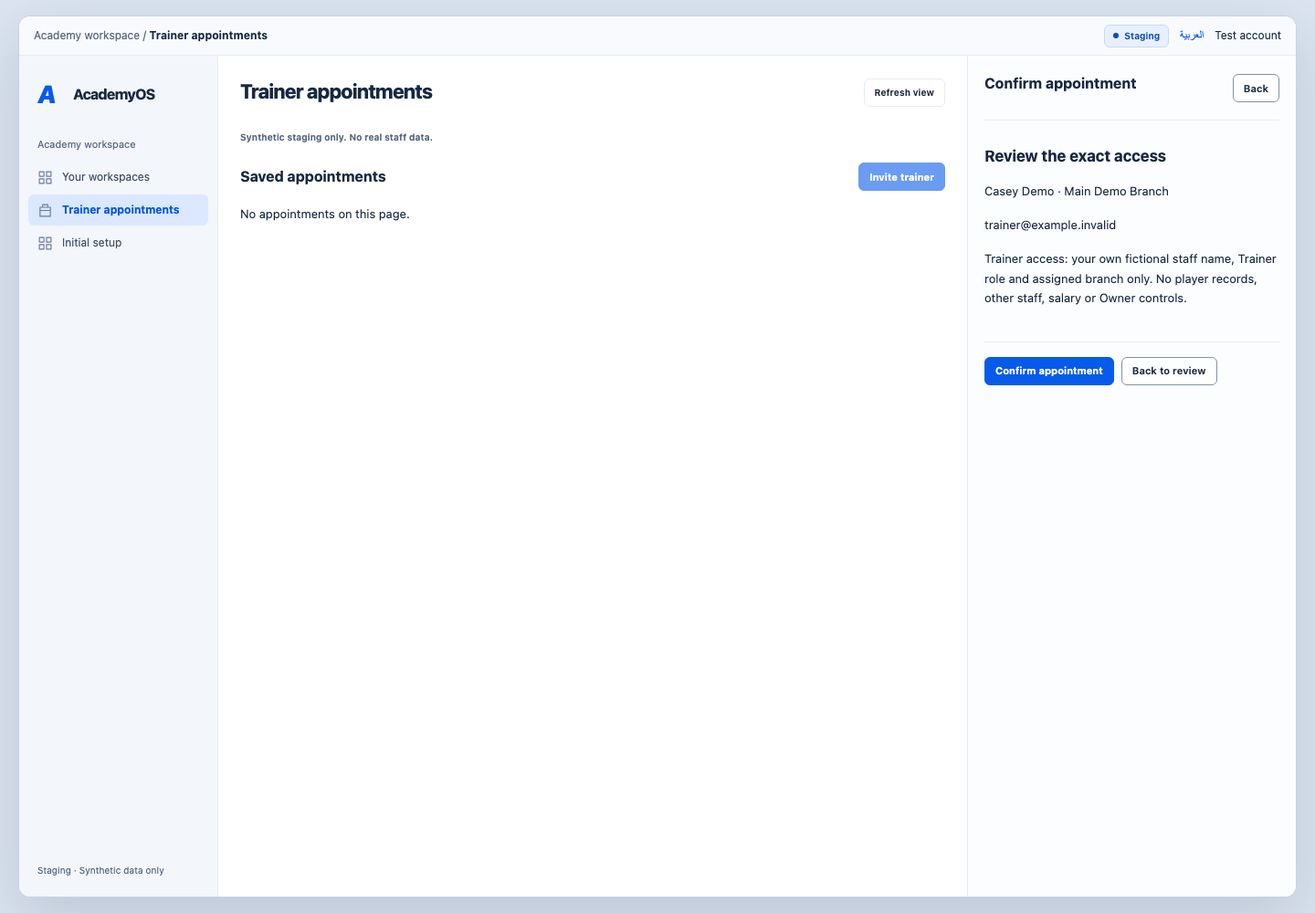
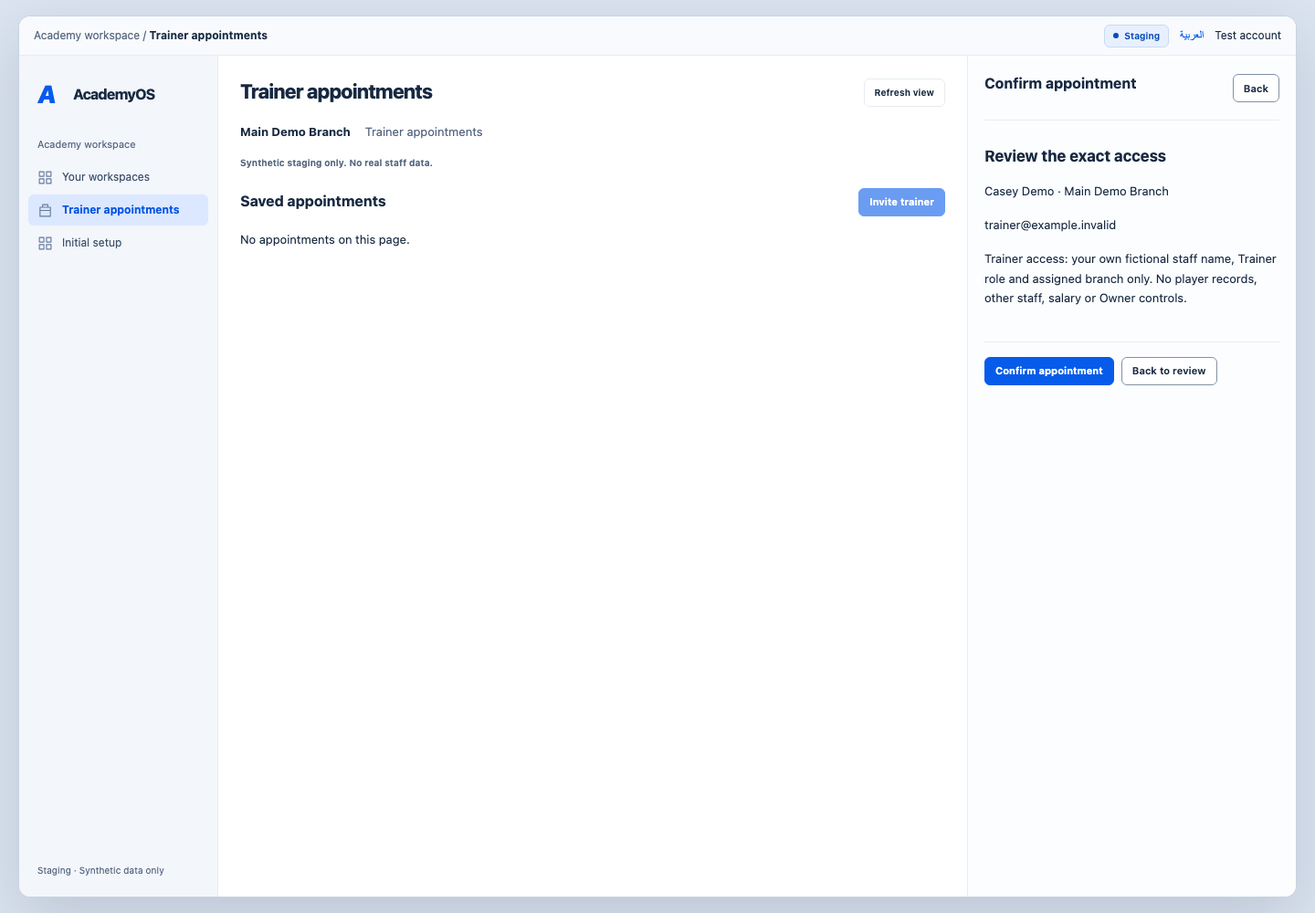
Preserve live profile focus and appointment task context

Changed region(s): [[0.1875, 0.124, 0.375, 0.279], [0.625, 0.155, 0.7188, 0.248]]

diff --git a/apps/web/src/components/people-workspace.tsx b/apps/web/src/components/people-workspace.tsx
@@ -65,7 +65,7 @@ function PeopleJourney({ locale: initialLocale, academy, subject }: {
     const [error, setError] = useState(''), [notice, setNotice] = useState(''), [busy, setBusy] = useState(true), [blocked, setBlocked] = useState(false);
     const [profileId, setProfileId] = useState(''), [selected, setSelected] = useState<Player | null>(null), [saved, setSaved] = useState(false);
     const operation = useRef<string | null>(null), heading = useRef<HTMLHeadingElement>(null), nameInput = useRef<HTMLInputElement>(null);
-    const profileOpener = useRef<HTMLButtonElement | null>(null);
+    const profileOpeners = useRef(new Map<string, HTMLButtonElement>()), searchInput = useRef<HTMLInputElement>(null);
     const lastSearch = useRef(''), lifecycleTicket = useRef(0), profileTicket = useRef(0);
     const active = useRef(true), locked = useRef(false), controllers = useRef(new Set<AbortController>()), directoryTicket = useRef(0);
     const storageKey = `academyos:people:${subject}:${academy}`;
@@ -276,10 +276,10 @@ function PeopleJourney({ locale: initialLocale, academy, subject }: {
         return; lastSearch.current = search; const timer = setTimeout(() => refreshDirectory(), 300); return () => clearTimeout(timer); }, [search]);
     useEffect(() => { let queued = false; const refresh = () => { if (queued) return; queued = true; queueMicrotask(() => { queued = false; refreshVisible(); }); }; window.addEventListener('focus', refresh); document.addEventListener('visibilitychange', refresh); return () => { window.removeEventListener('focus', refresh); document.removeEventListener('visibilitychange', refresh); }; }, []);
     useEffect(() => { document.documentElement.lang = locale; document.documentElement.dir = ar ? 'rtl' : 'ltr'; }, [locale, ar]);
-    useEffect(() => { heading.current?.focus(); }, [stage]);
+    useEffect(() => { if (!['profile','review','saving','unknown'].includes(stage)) heading.current?.focus(); }, [stage]);
     useEffect(() => { if (!['form', 'duplicates', 'review', 'saving', 'unknown'].includes(stage))
         return; const guard = (e: BeforeUnloadEvent) => { e.preventDefault(); e.returnValue = ''; }; window.addEventListener('beforeunload', guard); return () => window.removeEventListener('beforeunload', guard); }, [stage]);
-    function closeProfile() { if (busy || stage === 'unknown' || stage === 'saving') return; if (stage === 'review') { go('form'); return; } go('directory'); if (saved) void loadDirectory(); requestAnimationFrame(() => profileOpener.current?.focus()); }
+    function closeProfile() { if (busy || stage === 'unknown' || stage === 'saving') return; if (stage === 'review') { go('form'); return; } go('directory'); const restoreFocus = () => requestAnimationFrame(() => (profileOpeners.current.get(profileId) ?? searchInput.current)?.focus()); if (saved) void loadDirectory().then(restoreFocus); else restoreFocus(); }
     const inspector = <>
       {stage === 'profile' && <div className="read-toolbar"><Button disabled={busy} onClick={() => void openProfile(profileId, saved)}>{t(error ? 'Retry current read' : 'Refresh view', error ? 'إعادة محاولة قراءة الحالة' : 'تحديث العرض')}</Button></div>}
 
@@ -330,10 +330,10 @@ function PeopleJourney({ locale: initialLocale, academy, subject }: {
         {(stage === 'directory' || stage === 'profile') && <section className="journey-card">
           <div className="section-heading"><h2>{t('Player directory', 'قائمة اللاعبين')}</h2><Button disabled={busy} className="button" onClick={() => { setName(''); setContact(''); setDifferent(false); setSaved(false); operation.current = null; go('form'); }}>{t('Register player', 'تسجيل لاعب')}</Button></div>
           <label htmlFor="player-search">{t('Find a player by name', 'البحث عن لاعب بالاسم')}</label>
-          <Input id="player-search" maxLength={160} value={search} onChange={event => { directoryTicket.current++; setSearch(event.target.value); setBusy(true); }}/>
+          <Input ref={searchInput} id="player-search" maxLength={160} value={search} onChange={event => { directoryTicket.current++; setSearch(event.target.value); setBusy(true); }}/>
           {search.normalize('NFKC').trim().length === 1 && <p>{t('Enter at least two characters to search.','أدخل حرفين على الأقل للبحث.')}</p>}
           {!busy && !players.length && search.normalize('NFKC').trim().length !== 1 && <p>{t('No matching players.', 'لا يوجد لاعبون مطابقون.')}</p>}
-          <table className="workspace-table"><caption className="visually-hidden">{t('Player directory','قائمة اللاعبين')}</caption><thead><tr><th>{t('Player','اللاعب')}</th><th>{t('Branch','الفرع')}</th></tr></thead><tbody>{!busy && players.map(player => <tr key={player.id} className={profileId === player.id && stage === 'profile' ? 'selected' : undefined}><th scope="row"><Button disabled={busy} onClick={event => { profileOpener.current=event.currentTarget; void openProfile(player.id); }}>{player.name}</Button></th><td>{player.branch}</td></tr>)}</tbody></table>
+          <table className="workspace-table"><caption className="visually-hidden">{t('Player directory','قائمة اللاعبين')}</caption><thead><tr><th>{t('Player','اللاعب')}</th><th>{t('Branch','الفرع')}</th></tr></thead><tbody>{!busy && players.map(player => <tr key={player.id} className={profileId === player.id && stage === 'profile' ? 'selected' : undefined}><th scope="row"><Button ref={node => { if (node) profileOpeners.current.set(player.id,node); else profileOpeners.current.delete(player.id); }} disabled={busy} onClick={() => void openProfile(player.id)}>{player.name}</Button></th><td>{player.branch}</td></tr>)}</tbody></table>
           <Button disabled={busy} onClick={() => void loadDirectory()}>{t('First page', 'الصفحة الأولى')}</Button>{more && <Button disabled={busy} onClick={() => void loadDirectory(players.at(-1)?.id)}>{t('Next page', 'الصفحة التالية')}</Button>}<small>{t('Up to 25 players per page. Contact details appear only in profiles.', 'حتى 25 لاعباً في الصفحة. بيانات الاتصال في الملفات فقط.')}</small>
         </section>}
         {stage === 'form' && <section className="journey-card"><h2>{t('New player draft', 'مسودة لاعب جديد')}</h2>
@@ -354,7 +354,7 @@ function PeopleJourney({ locale: initialLocale, academy, subject }: {
         </section>}
         {stage === 'duplicates' && <section className="journey-card"><h2>{t('Review possible duplicates', 'مراجعة السجلات المتشابهة')}</h2>
           <p>{t('Matching names do not establish identity. Open an existing record, or explicitly confirm a different person. No automatic merge.', 'تشابه الاسم لا يثبت الهوية. افتح سجلاً موجوداً أو أكد أنه شخص مختلف. لا دمج تلقائياً.')}</p>
-          <ul className="journey-list">{candidates.map(player => <li key={player.id}><strong>{player.name}</strong> · {player.branch} <Button disabled={busy} onClick={event => { profileOpener.current = event.currentTarget; void openProfile(player.id); }}>{t('Open existing profile', 'فتح الملف الموجود')}</Button></li>)}</ul>
+          <ul className="journey-list">{candidates.map(player => <li key={player.id}><strong>{player.name}</strong> · {player.branch} <Button disabled={busy} onClick={() => void openProfile(player.id)}>{t('Open existing profile', 'فتح الملف الموجود')}</Button></li>)}</ul>
           {candidateMore && <Button disabled={busy} onClick={() => void reviewCandidates(candidates.at(-1)?.id)}>{t('Next matching page (up to 25)', 'الصفحة المطابقة التالية (حتى 25)')}</Button>}<label className="people-check"><input type="checkbox" checked={different} onChange={event => setDifferent(event.target.checked)}/>{t('I reviewed these records. This is a different fictional person.', 'راجعت هذه السجلات. هذا شخص خيالي مختلف.')}</label>
           <div className="journey-actions"><Button disabled={!different || busy || candidateMore} className="button" onClick={() => go('review')}>{t('Review new registration', 'مراجعة التسجيل الجديد')}</Button><Button onClick={() => go('form')}>{t('Edit draft', 'تعديل المسودة')}</Button></div>
         </section>}

diff --git a/apps/web/src/components/guardian-workspace.tsx b/apps/web/src/components/guardian-workspace.tsx
@@ -291,7 +291,7 @@ function GuardianJourney({ locale: initialLocale, mode, academy, player: playerI
     </>;
     return <WorkspaceShell locale={locale} context={mode === 'guardian' ? t('Guardian workspace', 'مساحة ولي الأمر') : t('Academy workspace', 'مساحة الأكاديمية')} title={title} homeHref={`/${locale}/workspace`} languageHref={`/${ar ? 'en' : 'ar'}/${path}`} onNavigate={navigate} account={<UserButton />} navigation={[{ href: `/${locale}/workspace`, label: t('Your workspaces', 'مساحات العمل') }, ...(mode === 'owner' ? [{ href: `/${locale}/workspace/${academy}/players/${playerId}/guardians`, label: title, current: true }, { href: `/${locale}/workspace/${academy}/players`, label: t('Players', 'اللاعبون') }] : [])]}>
  <WorkspacePanes arabic={ar} title={draftOpen && !review ? t('New appointment','دعوة جديدة') : review ? t('Confirm appointment','تأكيد الدعوة') : t('Appointment details','تفاصيل الدعوة')} inspector={inspector} selected={Boolean(unknown || review || selected || inspected || draftOpen)} onBack={closeInspector} selectionKey={review ? 'review' : selected?.id ?? inspected?.id ?? (draftOpen ? 'draft' : '')} blocked={busy || unknown}>
- <header className="task-header"><h1 ref={heading} tabIndex={-1}>{title}</h1>{!unknown && mode === 'owner' && <div className="read-toolbar"><Button disabled={busy} onClick={() => { if (email || reason || review) { setReview(null); setConfirmed(false); setNotice('recheck'); } void load(); }}>{t(error ? 'Retry current read' : 'Refresh view', error ? 'إعادة محاولة قراءة الحالة' : 'تحديث العرض')}</Button></div>}{mode !== 'owner' && !unknown && <div className="read-toolbar"><Button disabled={busy} onClick={() => void load()}>{t(error ? 'Retry current read' : 'Refresh view', error ? 'إعادة محاولة قراءة الحالة' : 'تحديث العرض')}</Button></div>}</header>{mode !== 'owner' && !unknown && !review && error && <p role="alert" className="journey-error">{errorText[error] ?? errorText.unavailable}</p>} {!busy && !unknown && !blocked && !review && mode === 'invitation' && invite && <section className="journey-card"><h2>{invite.display_name}</h2><p>{invite.branch_name}</p><p>{scope}</p>{invite.state === 'accepted' ? <Link className="button" href={`/${locale}/workspace/${invite.academy_id}/guardian`}>{t('Open linked players', 'فتح اللاعبين المرتبطين')}</Link> : <Button onClick={() => setReview({ action: 'accept' })}>{t('Review acceptance', 'مراجعة القبول')}</Button>}</section>}
+ <header className="task-header"><h1 ref={heading} tabIndex={-1}>{title}</h1>{!unknown && mode === 'owner' && <div className="read-toolbar"><Button disabled={busy} onClick={() => { if (email || reason || review) { setReview(null); setConfirmed(false); setNotice('recheck'); } void load(); }}>{t(error ? 'Retry current read' : 'Refresh view', error ? 'إعادة محاولة قراءة الحالة' : 'تحديث العرض')}</Button></div>}{mode !== 'owner' && !unknown && <div className="read-toolbar"><Button disabled={busy} onClick={() => void load()}>{t(error ? 'Retry current read' : 'Refresh view', error ? 'إعادة محاولة قراءة الحالة' : 'تحديث العرض')}</Button></div>}</header>{mode === 'owner' && person && <p className="scope-line"><strong>{person.display_name}</strong><span>{person.branch_name}</span></p>}{mode !== 'owner' && !unknown && !review && error && <p role="alert" className="journey-error">{errorText[error] ?? errorText.unavailable}</p>} {!busy && !unknown && !blocked && !review && mode === 'invitation' && invite && <section className="journey-card"><h2>{invite.display_name}</h2><p>{invite.branch_name}</p><p>{scope}</p>{invite.state === 'accepted' ? <Link className="button" href={`/${locale}/workspace/${invite.academy_id}/guardian`}>{t('Open linked players', 'فتح اللاعبين المرتبطين')}</Link> : <Button onClick={() => setReview({ action: 'accept' })}>{t('Review acceptance', 'مراجعة القبول')}</Button>}</section>}
  {!busy && !unknown && !blocked && !error && !review && mode === 'guardian' && <section className="journey-card"><p>{scope}</p>{children.length === 0 && <p>{t('No active approved player links on this page. Contact your academy Owner if you expected access.', 'لا توجد ارتباطات معتمدة نشطة في هذه الصفحة. تواصل مع مالك الأكاديمية إذا توقعت صلاحية.')}</p>}<ul className="journey-list">{children.map(c => <li key={c.id}><h2>{c.display_name}</h2><p>{c.branch_name}</p><Button onClick={() => void load(undefined, undefined, c.id)}>{t('Refresh this player’s access', 'تحديث صلاحية هذا اللاعب')}</Button></li>)}</ul>{more && <Button onClick={() => void load(children.at(-1)?.id)}>{t('Next page', 'الصفحة التالية')}</Button>}</section>}
 <p className="eyebrow">{t('Synthetic staging only. No real family evidence.', 'بيئة اختبار فقط. لا أدلة أسرية حقيقية.')}</p>
  {error && !unknown && !review && !selected && !draftOpen && mode === 'owner' && <p role="alert" className="notice error">{errorText[error] ?? errorText.unavailable}</p>}{notice && !review && !selected && !draftOpen && !unknown && <p role="status" className="notice">{notice === 'recheck' ? t('Draft retained. Recheck current state before a new confirmation; current server authority and version are checked on submit.', 'حُفظت المسودة في الذاكرة. أعد التحقق قبل تأكيد جديد؛ تُفحص الصلاحية والإصدار على الخادم عند الإرسال.') : notice === 'cancelled' ? t('The original operation was cancelled before commit. Review before starting again.', 'أُلغيت العملية الأصلية قبل الحفظ. راجع قبل البدء مجدداً.') : error ? t('Operation confirmed; current access could not be refreshed. Retry loading.', 'تأكدت العملية؛ تعذر تحديث الصلاحية الحالية. أعد التحميل.') : t('Operation confirmed. Current saved state is shown below.', 'تأكدت العملية. الحالة المحفوظة الحالية موضحة أدناه.')}</p>}

diff --git a/apps/web/src/components/trainer-workspace.tsx b/apps/web/src/components/trainer-workspace.tsx
@@ -291,7 +291,7 @@ function TrainerJourney({ locale: initialLocale, mode, academy, subject }: Props
     </>;
     return <WorkspaceShell locale={locale} context={mode === 'trainer' ? t('Trainer workspace', 'مساحة المدرب') : t('Academy workspace', 'مساحة الأكاديمية')} title={title} homeHref={`/${locale}/workspace`} languageHref={`/${ar ? 'en' : 'ar'}/${path}`} onNavigate={navigate} account={<UserButton />} navigation={[{ href: `/${locale}/workspace`, label: t('Your workspaces', 'مساحات العمل') }, ...(mode === 'owner' ? [{ href: `/${locale}/workspace/${academy}/staff`, label: title, current: true }, { href: `/${locale}/workspace/${academy}`, label: t('Initial setup', 'الإعداد الأولي') }] : [])]}>
  <WorkspacePanes arabic={ar} title={draftOpen && !review ? t('New appointment','دعوة جديدة') : review ? t('Confirm appointment','تأكيد الدعوة') : t('Appointment details','تفاصيل الدعوة')} inspector={inspector} selected={Boolean(unknown || review || selected || inspected || draftOpen)} onBack={closeInspector} selectionKey={review ? 'review' : selected?.id ?? inspected?.id ?? (draftOpen ? 'draft' : '')} blocked={busy || unknown}>
- <header className="task-header"><h1 ref={heading} tabIndex={-1}>{title}</h1>{!unknown && mode === 'owner' && <div className="read-toolbar"><Button disabled={busy} onClick={() => { if (email || reason || review) { setReview(null); setConfirmed(false); setNotice('recheck'); } void load(); }}>{t(error ? 'Retry current read' : 'Refresh view', error ? 'إعادة محاولة قراءة الحالة' : 'تحديث العرض')}</Button></div>}{mode !== 'owner' && !unknown && <div className="read-toolbar"><Button disabled={busy} onClick={() => void load()}>{t(error ? 'Retry current read' : 'Refresh view', error ? 'إعادة محاولة قراءة الحالة' : 'تحديث العرض')}</Button></div>}</header>{mode !== 'owner' && !unknown && !review && error && <p role="alert" className="journey-error">{errorText[error] ?? errorText.unavailable}</p>} {!busy&&!unknown&&!blocked&&!review&&mode==='invitation'&&invite&&<section className="journey-card"><h2>{invite.display_name}</h2><p>{t('Trainer','مدرب')} · {invite.branch_name}</p><p>{scope}</p>{invite.state==='accepted'?<Link className="button" href={`/${locale}/workspace/${invite.academy_id}/trainer`}>{t('Open staff profile','فتح الملف الوظيفي')}</Link>:<Button onClick={()=>setReview({action:'accept'})}>{t('Review acceptance','مراجعة القبول')}</Button>}</section>}
+ <header className="task-header"><h1 ref={heading} tabIndex={-1}>{title}</h1>{!unknown && mode === 'owner' && <div className="read-toolbar"><Button disabled={busy} onClick={() => { if (email || reason || review) { setReview(null); setConfirmed(false); setNotice('recheck'); } void load(); }}>{t(error ? 'Retry current read' : 'Refresh view', error ? 'إعادة محاولة قراءة الحالة' : 'تحديث العرض')}</Button></div>}{mode !== 'owner' && !unknown && <div className="read-toolbar"><Button disabled={busy} onClick={() => void load()}>{t(error ? 'Retry current read' : 'Refresh view', error ? 'إعادة محاولة قراءة الحالة' : 'تحديث العرض')}</Button></div>}</header>{mode === 'owner' && branch && <p className="scope-line"><strong>{branch.branch_name}</strong><span>{t('Trainer appointments','تعيينات المدربين')}</span></p>}{mode !== 'owner' && !unknown && !review && error && <p role="alert" className="journey-error">{errorText[error] ?? errorText.unavailable}</p>} {!busy&&!unknown&&!blocked&&!review&&mode==='invitation'&&invite&&<section className="journey-card"><h2>{invite.display_name}</h2><p>{t('Trainer','مدرب')} · {invite.branch_name}</p><p>{scope}</p>{invite.state==='accepted'?<Link className="button" href={`/${locale}/workspace/${invite.academy_id}/trainer`}>{t('Open staff profile','فتح الملف الوظيفي')}</Link>:<Button onClick={()=>setReview({action:'accept'})}>{t('Review acceptance','مراجعة القبول')}</Button>}</section>}
  {!busy&&!unknown&&!blocked&&!error&&!review&&mode==='trainer'&&profile&&<section className="journey-card"><h2>{profile.display_name}</h2><p>{t('Trainer','مدرب')} · {profile.branch_name}</p><p>{scope}</p><p>{t('No dated sessions are available in this slice. Programs, assigned rosters and attendance follow in later stages.','لا تتاح حصص مؤرخة في هذه المرحلة. تأتي البرامج والقوائم المخصصة والحضور في مراحل لاحقة.')}</p></section>}
 <p className="eyebrow">{t('Synthetic staging only. No real staff data.', 'بيئة اختبار فقط. لا بيانات موظفين حقيقية.')}</p>
  {error && !unknown && !review && !selected && !draftOpen && mode === 'owner' && <p role="alert" className="notice error">{errorText[error] ?? errorText.unavailable}</p>}{notice && !review && !selected && !draftOpen && !unknown && <p role="status" className="notice">{notice === 'recheck' ? t('Draft retained. Recheck current state before a new confirmation; current server authority and version are checked on submit.', 'حُفظت المسودة في الذاكرة. أعد التحقق قبل تأكيد جديد؛ تُفحص الصلاحية والإصدار على الخادم عند الإرسال.') : notice === 'cancelled' ? t('The original operation was cancelled before commit. Review before starting again.', 'أُلغيت العملية الأصلية قبل الحفظ. راجع قبل البدء مجدداً.') : error ? t('Operation confirmed; current access could not be refreshed. Retry loading.', 'تأكدت العملية؛ تعذر تحديث الصلاحية الحالية. أعد التحميل.') : t('Operation confirmed. Current saved state is shown below.', 'تأكدت العملية. الحالة المحفوظة الحالية موضحة أدناه.')}</p>}

diff --git a/apps/web/src/app/globals.css b/apps/web/src/app/globals.css
@@ -209,7 +209,7 @@ button.primary { background:var(--accent);border-color:var(--accent);color:white
 .workspace-panes fieldset > p { color:var(--muted);font-size:12px;line-height:1.6; }
 .workspace-panes .checkbox-row { margin-block:16px;align-items:start;font-weight:400; }
 .checkbox-row input { flex-shrink:0; }
-.main > main > h1,.main > main > .journey-error,.main > main > .notice,.main > main > .journey-card { margin:22px 24px; }
+.main:has(.workspace-panes) > main > h1,.main:has(.workspace-panes) > main > .journey-error,.main:has(.workspace-panes) > main > .notice,.main:has(.workspace-panes) > main > .journey-card { margin:22px 24px; }
 .app-scene[lang="ar"] { font-family:Tahoma,Arial,sans-serif;font-size:14px;line-height:1.7; }
 .app-scene[lang="ar"] .workspace-sidebar nav a,.app-scene[lang="ar"] button,.app-scene[lang="ar"] .button { font-size:13px; }
 .app-scene[lang="ar"] h1 { line-height:1.5; }
@@ -234,3 +234,4 @@ input[dir="ltr"] { text-align:left; }
 
 .inspector-read { display:none; }
 @media(max-width:1100px) { .pane-selected .inspector-read { display:flex;margin:0; } }
+.scope-line { display:flex;gap:8px 16px;flex-wrap:wrap;margin-block:-8px 16px;color:var(--muted); }.scope-line strong { color:var(--ink); }

diff --git a/docs/07-handoff/workflow-clarity-correction.md b/docs/07-handoff/workflow-clarity-correction.md
@@ -17,3 +17,9 @@ Guardian/Trainer Owner views begin with saved appointments and an explicit Invit
 [Actual-component gallery](evidence/workflow-clarity-2026-10-25/index.html), [source/check receipt](evidence/workflow-clarity-2026-10-25/verification.json). Build/typecheck/lint (zero warnings), 39 unit tests, 7 foundation E2E and all four actual-component browser suites in production/development pass. New geometry checks cover title/header padding at 1440/926/360; table reflow and 926px draft Back/live opener focus preserve typed intent. This test caught a stale opener after a background refresh; fixed with a live creation-button ref. Existing access/recovery/keyboard assertions retained. Browser tests use synthetic identity/HTTP adapters; no new hosted data/grant generated.
 
 Hosted deployment and actual signed-in rendering are recorded below. Owner acceptance, physical-device/native accessibility, hosted workload/cost and independent human security review remain separate. A passing test suite does not establish intuitive usability; the Owner's reported issue remains an acceptance correction until reviewed.
+
+## Hosted inspection follow-up
+
+Base correction `f8919bca2aade9bf94970f48ca726e26ad78f6c5` deployed READY as `dpl_DfNh2JNPx5u5aM38ijXUsDjSMhBR` on the existing synthetic staging alias. Signed-in Owner checks verified Arabic admission at 926px, selected detail and Back focus (returns to exact academy), English 1440px geometry (820px center / 360px inspector, no overflow), workspace selection → existing saved setup → player directory → existing player profile → saved Guardian appointments. No invitations, registrations, accept/end operations or grants executed. Initial hosted captures are in `evidence/workflow-clarity-2026-10-25/hosted/`. Both base-source Foundation CI runs `40215390643` and `40215385245` passed.
+
+Hosted inspection found parent player-heading focus overriding the inspector focus, and a stale row opener risk after profile loading. Follow-up source restricts page-heading focus to central tasks and restores Back to the current row ref (or search when that row is outside the current filter). New production/development browser assertions verify selected profile-heading focus and live-row Back focus. Owner appointment pages now retain the selected player/branch context above the directory using existing permitted fields. All component suites, build/typecheck/lint rechecked after these changes. Final rollout/current hosted verification follows below.
